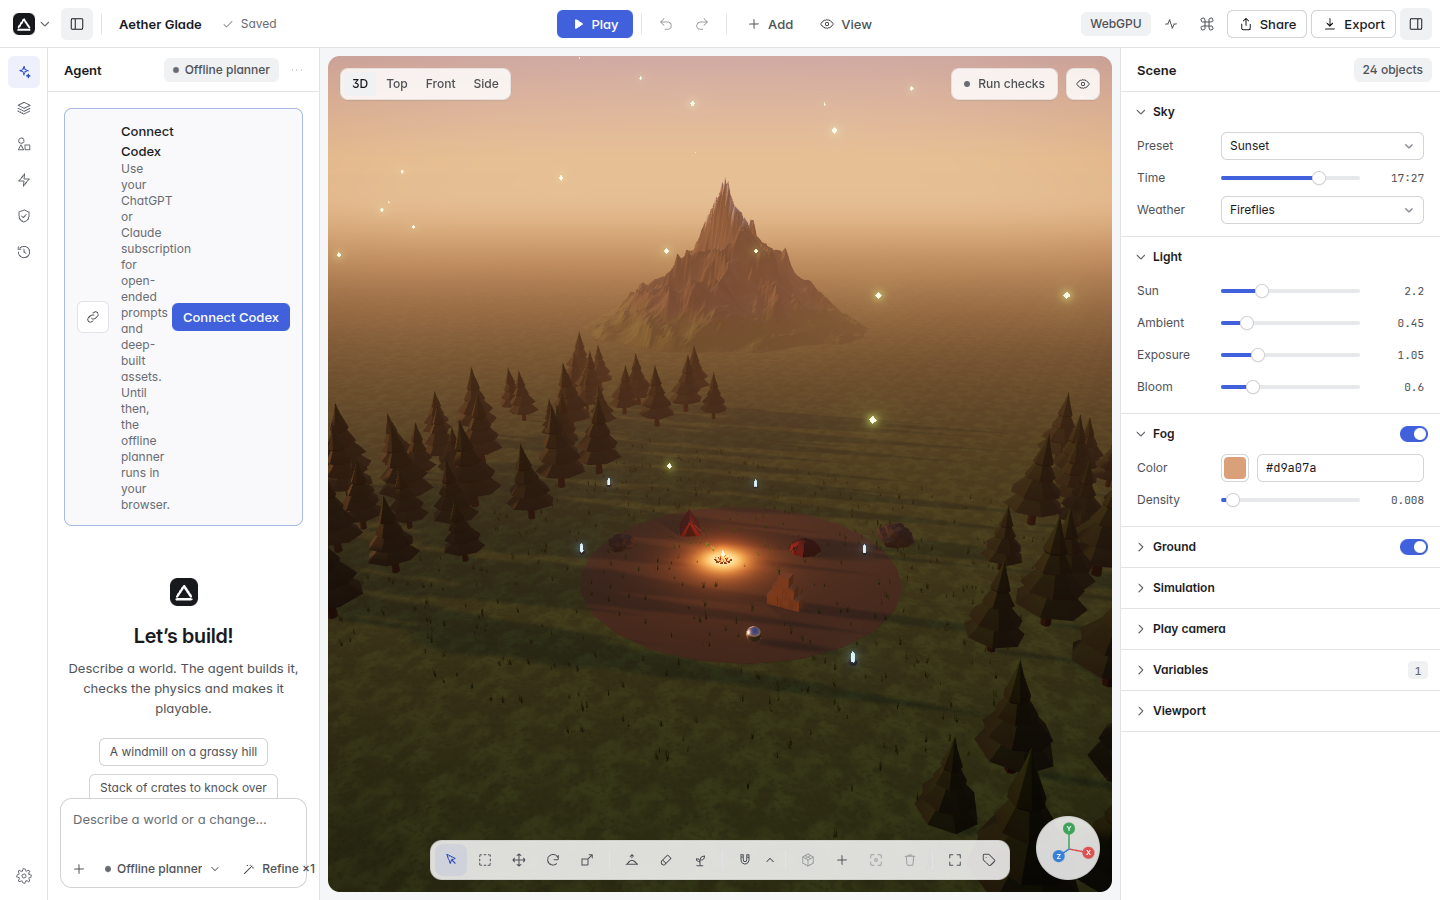
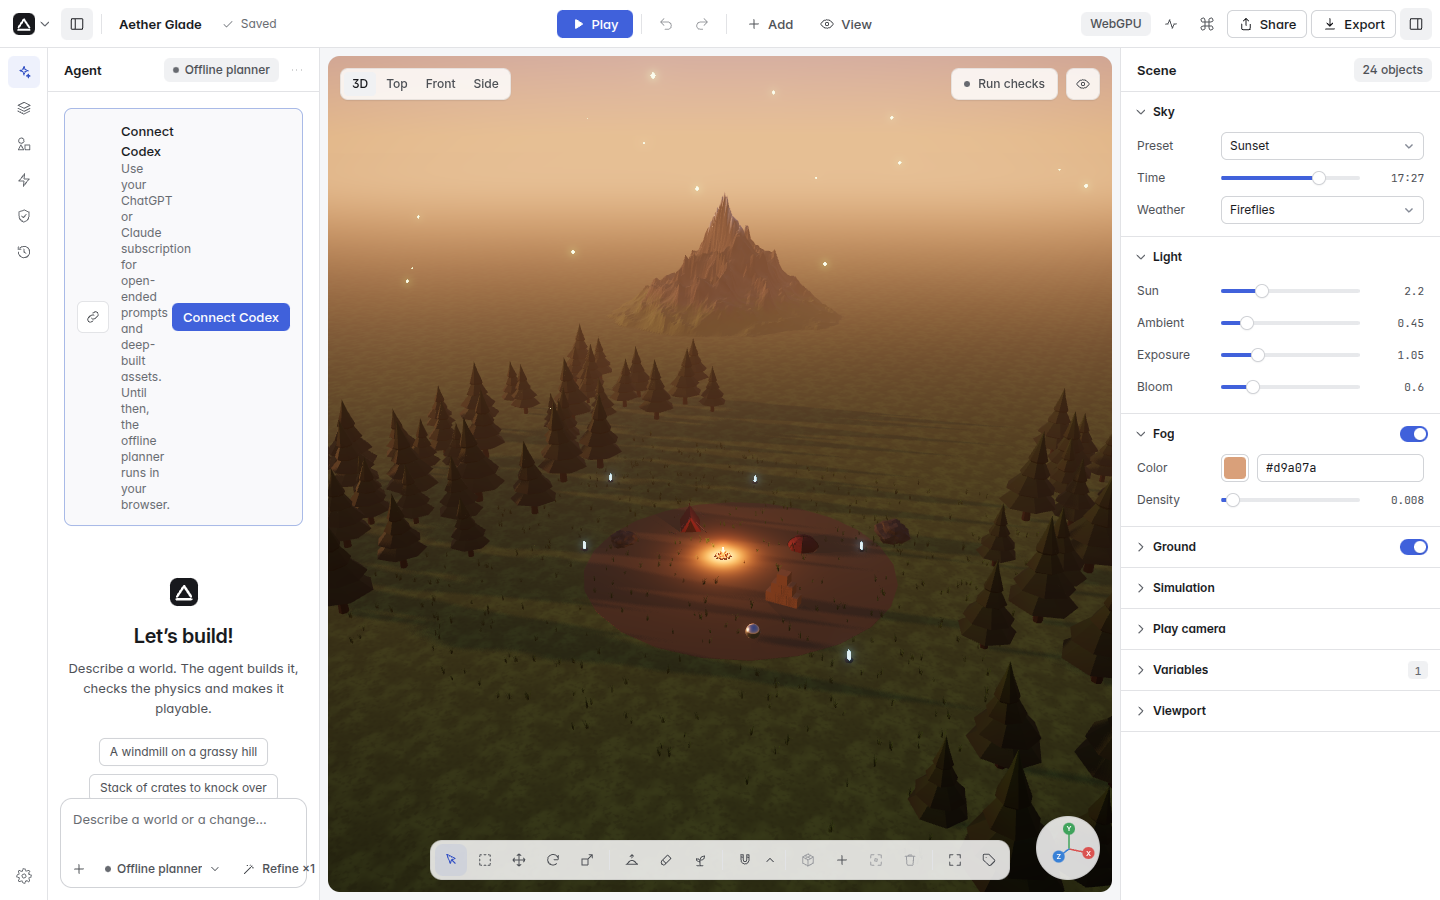
wip: checkpoint of parallel build progress (docs,render,tests)
3 files changed.

diff --git a/tests/e2e/studio.e2e.ts b/tests/e2e/studio.e2e.ts
@@ -105,64 +105,111 @@ async function waitFor<T>(page: Page, what: string, timeoutMs: number, probe: ()
 // Long-task probe (installed before any page script runs)
 // ---------------------------------------------------------------------------
 
+/** One recorded main-thread interval (ms, page clock). */
+interface Interval {
+  start: number;
+  duration: number;
+}
+
+/** A long animation frame with its script attribution (Chromium). */
+interface LongFrame extends Interval {
+  scripts: Array<{ invoker: string; type: string; start: number; duration: number }>;
+}
+
 /** Main-thread blocking observed since the last reset. */
 interface BlockingStats {
-  /** Longest `longtask` entry (Chromium; -1 where the entry type is unsupported, e.g. Firefox). */
-  longTaskMax: number;
-  longTasks: number;
-  /** Longest event-loop stall seen by a 20 ms interval timer (all browsers). */
-  lagMax: number;
+  /** `longtask` entries (Chromium); null where the entry type is unsupported (Firefox). */
+  tasks: Interval[] | null;
+  /** `long-animation-frame` entries with script attribution (Chromium); null where unsupported. */
+  frames: LongFrame[] | null;
+  /** Event-loop stalls > 50 ms seen by a 20 ms interval timer (every browser). */
+  stalls: Interval[];
+  /** Verification runs: from `running` to a final state. */
+  verifications: Interval[];
 }
 
 declare global {
   interface Window {
-    __aetherBlocking?: { reset(): void; read(): BlockingStats };
+    __aetherBlocking?: { reset(): void; read(): BlockingStats; watchVerify(): void };
   }
 }
 
 /**
- * Records long tasks (PerformanceObserver 'longtask', Chromium) and the
- * worst event-loop stall (an interval timer's lateness, every browser), so
- * Firefox, which has no long-task entries, is measured too. Plain JavaScript
- * source (not a compiled function) so no bundler helper leaks into the page.
+ * Records long tasks and long animation frames (Chromium) and event-loop
+ * stalls (an interval timer's lateness, every browser, since Firefox has no
+ * long-task entries), plus the time windows in which verification runs.
+ * Plain JavaScript source (not a compiled function) so no bundler helper
+ * leaks into the page.
  */
 const BLOCKING_PROBE = `(() => {
-  const stats = { longTaskMax: -1, longTasks: 0, lagMax: 0 };
-  let supported = false;
+  const s = { tasks: null, frames: null, stalls: [], verifications: [] };
+  const types = (window.PerformanceObserver && PerformanceObserver.supportedEntryTypes) || [];
+  const reset = () => {
+    s.tasks = types.includes('longtask') ? [] : null;
+    s.frames = types.includes('long-animation-frame') ? [] : null;
+    s.stalls = [];
+    s.verifications = [];
+  };
+  reset();
   try {
-    supported = PerformanceObserver.supportedEntryTypes.includes('longtask');
-    if (supported) {
-      stats.longTaskMax = 0;
-      new PerformanceObserver((list) => {
-        for (const e of list.getEntries()) {
-          stats.longTasks++;
-          if (e.duration > stats.longTaskMax) stats.longTaskMax = e.duration;
-        }
-      }).observe({ type: 'longtask', buffered: false });
-    }
-  } catch (err) {
-    supported = false;
-  }
+    if (types.includes('longtask')) new PerformanceObserver((list) => { for (const e of list.getEntries()) if (s.tasks) s.tasks.push({ start: e.startTime, duration: e.duration }); }).observe({ type: 'longtask', buffered: false });
+    if (types.includes('long-animation-frame')) new PerformanceObserver((list) => {
+      for (const e of list.getEntries()) if (s.frames) s.frames.push({ start: e.startTime, duration: e.duration, scripts: (e.scripts || []).map((x) => ({ invoker: String(x.invoker || ''), type: String(x.invokerType || ''), start: x.startTime, duration: x.duration })) });
+    }).observe({ type: 'long-animation-frame', buffered: false });
+  } catch (err) {}
   const INTERVAL = 20;
   let last = performance.now();
   setInterval(() => {
     const now = performance.now();
     const lag = now - last - INTERVAL;
-    if (lag > stats.lagMax) stats.lagMax = lag;
+    if (lag > 50) s.stalls.push({ start: last, duration: lag });
     last = now;
   }, INTERVAL);
+  let watching = false;
+  let openAt = -1;
   window.__aetherBlocking = {
-    reset() {
-      stats.longTaskMax = supported ? 0 : -1;
-      stats.longTasks = 0;
-      stats.lagMax = 0;
-      last = performance.now();
-    },
-    read() {
-      return { longTaskMax: stats.longTaskMax, longTasks: stats.longTasks, lagMax: stats.lagMax };
+    reset() { reset(); openAt = -1; last = performance.now(); },
+    read() { return JSON.parse(JSON.stringify(s)); },
+    watchVerify() {
+      if (watching || !window.__aether) return;
+      watching = true;
+      window.__aether.store.subscribe((st) => {
+        const running = st.verify.status === 'running';
+        if (running && openAt < 0) openAt = performance.now();
+        else if (!running && openAt >= 0) { s.verifications.push({ start: openAt, duration: performance.now() - openAt }); openAt = -1; }
+      });
     },
   };
 })();`;
+
+/** Longest duration in a list (0 when empty, -1 when unsupported). */
+function longest(list: Interval[] | null): number {
+  if (!list) return -1;
+  return list.reduce((m, i) => Math.max(m, i.duration), 0);
+}
+
+/** True when two intervals overlap. */
+function overlaps(a: Interval, b: Interval): boolean {
+  return a.start < b.start + b.duration && b.start < a.start + a.duration;
+}
+
+/**
+ * Longest main-thread script during verification that is NOT the renderer's
+ * animation-frame callback (Chromium long-animation-frame attribution; -1
+ * where unsupported). Rendering a freshly built world compiles its
+ * materials inside the frame callback (three.js, not verification); any
+ * other long script in these windows (message handlers, timers, promise
+ * continuations) would be verification work leaking onto the main thread.
+ */
+function verificationScriptMax(b: BlockingStats): number {
+  if (!b.frames) return -1;
+  let worst = 0;
+  for (const f of b.frames) {
+    if (!b.verifications.some((w) => overlaps(f, w))) continue;
+    for (const sc of f.scripts) if (sc.invoker !== 'FrameRequestCallback' && sc.duration > worst) worst = sc.duration;
+  }
+  return worst;
+}
 
 /** Compact studio state read through `window.__aether`. */
 interface StudioSnapshot {
@@ -363,6 +410,7 @@ interface RunMetrics {
   firstFrameMs: number;
   defaultWorld: { fps: number; drawCalls: number; triangles: number; entities: number };
   examples: Array<{ slug: string; entities: number; fps: number; drawCalls: number; triangles: number; verify: string; agentMs: number; longTaskMs: number; lagMs: number; verifyMs: number; lanes: number }>;
+  checks?: { ms: number; lanes: number; longTaskMs: number; lagMs: number };
 }
 
 async function boot(page: Page, url: string, metrics: RunMetrics): Promise<void> {
@@ -392,7 +440,10 @@ async function sendPrompt(page: Page, prompt: { slug: string; text: string }, me
   const input = page.getByLabel('Prompt', { exact: true });
   await input.click();
   await input.fill(prompt.text);
-  await page.evaluate(() => window.__aetherBlocking?.reset());
+  await page.evaluate(() => {
+    window.__aetherBlocking?.watchVerify();
+    window.__aetherBlocking?.reset();
+  });
   const t0 = performance.now();
   await input.press('Enter');
   await waitFor(page, `agent to start on "${prompt.slug}"`, 10_000, async () => (await snap(page)).agentBusy || (await snap(page)).head !== before.head);
@@ -404,10 +455,17 @@ async function sendPrompt(page: Page, prompt: { slug: string; text: string }, me
   const blocking = await page.evaluate(() => window.__aetherBlocking?.read() ?? null);
   check(blocking, 'the long-task probe is missing');
   log(`  agent: ${(await lastTurnEvents(page)).join(' | ')}`);
-  log(`  main thread during the turn: longest task ${blocking.longTaskMax < 0 ? 'n/a' : `${Math.round(blocking.longTaskMax)} ms`} (${blocking.longTasks} long tasks), worst event-loop stall ${Math.round(blocking.lagMax)} ms; verification ${after.verifyWorker ? `in ${after.verifyLanes} worker lane(s)` : 'on the main thread'}, ${Math.round(after.verifyMs)} ms`);
+  const longTaskMs = longest(blocking.tasks);
+  const lagMs = longest(blocking.stalls);
+  const verifyScriptMs = verificationScriptMax(blocking);
+  log(
+    `  main thread during the turn: longest task ${longTaskMs < 0 ? 'n/a' : `${Math.round(longTaskMs)} ms`}, worst stall ${Math.round(lagMs)} ms; ` +
+      `verification ${after.verifyWorker ? `in ${after.verifyLanes} worker lane(s)` : 'on the main thread'} (${blocking.verifications.length} run(s), ${Math.round(after.verifyMs)} ms), ` +
+      `longest non-render script during verification ${verifyScriptMs < 0 ? 'n/a' : `${Math.round(verifyScriptMs)} ms`}`,
+  );
   check(after.verifyWorker === true, `verification of "${prompt.slug}" did not run in a worker (${String(after.verifyWorker)})`);
-  check(blocking.longTaskMax < MAX_LONG_TASK_MS, `a ${Math.round(blocking.longTaskMax)} ms long task blocked the main thread during "${prompt.slug}" (limit ${MAX_LONG_TASK_MS} ms)`);
-  check(blocking.lagMax < MAX_LONG_TASK_MS, `the event loop stalled for ${Math.round(blocking.lagMax)} ms during "${prompt.slug}" (limit ${MAX_LONG_TASK_MS} ms)`);
+  check(blocking.verifications.length > 0, `no verification run was observed during "${prompt.slug}"`);
+  check(verifyScriptMs < MAX_LONG_TASK_MS, `a ${Math.round(verifyScriptMs)} ms main-thread script ran during verification of "${prompt.slug}" (limit ${MAX_LONG_TASK_MS} ms)`);
   check(after.lastAssistant === 'done', `agent turn for "${prompt.slug}" ended with status ${after.lastAssistant}`);
   check(after.head !== before.head && (await worldJson(page)) !== beforeWorld, `"${prompt.slug}" did not change the world`);
   check(after.entities !== before.entities, `"${prompt.slug}" did not change the entity count (${before.entities})`);
@@ -421,12 +479,44 @@ async function sendPrompt(page: Page, prompt: { slug: string; text: string }, me
   await page.waitForTimeout(500);
   await assertCanvasRendered(page, prompt.slug);
   const perf = await sampleFps(page, FPS_SAMPLE_MS);
-  metrics.examples.push({ slug: prompt.slug, entities: after.entities, verify: after.verify, agentMs, longTaskMs: blocking.longTaskMax, lagMs: blocking.lagMax, verifyMs: after.verifyMs, lanes: after.verifyLanes, ...perf });
+  metrics.examples.push({ slug: prompt.slug, entities: after.entities, verify: after.verify, agentMs, longTaskMs, lagMs, verifyMs: after.verifyMs, lanes: after.verifyLanes, ...perf });
   log(`  "${prompt.slug}": ${before.entities} → ${after.entities} entities, verify=${after.verify} ("${pillText}"), agent ${Math.round(agentMs)} ms, ${perf.fps.toFixed(1)} fps, ${perf.drawCalls} draws`);
   if (shots) {
     await screenshot(page, `world-${prompt.slug}`, 'viewport');
     if (prompt.slug === 'lakeside-camp') await screenshot(page, 'studio-overview', 'page');
   }
+}
+
+/**
+ * "Run checks" on a world that is already rendered (no new materials to
+ * compile, nothing else running): the page must stay responsive while the
+ * world is simulated, because verification runs in workers. Measured in
+ * every browser with the event-loop stall probe, and with long tasks where
+ * supported.
+ */
+async function verifyResponsiveness(page: Page): Promise<{ ms: number; lanes: number; longTaskMs: number; lagMs: number }> {
+  await waitFor(page, 'the renderer to settle', 60_000, () => page.evaluate(() => !window.__aether?.simulation?.renderer.animating));
+  await page.waitForTimeout(1000);
+  await page.evaluate(() => {
+    window.__aetherBlocking?.watchVerify();
+    window.__aetherBlocking?.reset();
+  });
+  await page.locator('.viewport .pill--button').click();
+  const done = await waitFor(page, 'checks to finish', 60_000, async () => {
+    const st = await snap(page);
+    return st.verify !== 'running' && st.verify !== 'idle' ? st : null;
+  });
+  await page.waitForTimeout(300);
+  const b = await page.evaluate(() => window.__aetherBlocking?.read() ?? null);
+  check(b, 'the long-task probe is missing');
+  const longTaskMs = longest(b.tasks);
+  const lagMs = longest(b.stalls);
+  log(`  run checks on a rendered world: ${Math.round(done.verifyMs)} ms in ${done.verifyLanes} worker lane(s); longest task ${longTaskMs < 0 ? 'n/a' : `${Math.round(longTaskMs)} ms`}, worst stall ${Math.round(lagMs)} ms`);
+  check(done.verifyWorker === true, 'Run checks did not verify in a worker');
+  check(b.verifications.length === 1, `expected one verification run, saw ${b.verifications.length}`);
+  check(longTaskMs < MAX_LONG_TASK_MS, `a ${Math.round(longTaskMs)} ms long task blocked the page while checks ran (limit ${MAX_LONG_TASK_MS} ms)`);
+  check(lagMs < MAX_LONG_TASK_MS, `the page stalled for ${Math.round(lagMs)} ms while checks ran (limit ${MAX_LONG_TASK_MS} ms)`);
+  return { ms: done.verifyMs, lanes: done.verifyLanes, longTaskMs, lagMs };
 }
 
 async function playAndStop(page: Page, shots: boolean): Promise<void> {
@@ -656,6 +746,7 @@ async function run(browser: Browser, url: string, opts: RunOptions): Promise<Run
 
     const prompts = opts.full ? PROMPTS : PROMPTS.slice(-1);
     for (const p of prompts) await sendPrompt(page, p, metrics, opts.screenshots);
+    metrics.checks = await verifyResponsiveness(page);
     await playAndStop(page, opts.screenshots);
     if (opts.full) {
       await themeSwitch(page);
@@ -696,6 +787,7 @@ function report(results: Array<{ name: string; metrics: RunMetrics }>): void {
     const worstTask = Math.max(...m.examples.map((e) => e.longTaskMs));
     const worstLag = Math.max(...m.examples.map((e) => e.lagMs));
     log(`  [${name}] agent turns: longest main-thread task ${worstTask < 0 ? 'n/a' : `${Math.round(worstTask)} ms`}, worst stall ${Math.round(worstLag)} ms; verification ${m.examples.map((e) => `${e.slug} ${Math.round(e.verifyMs)} ms/${e.lanes} lane(s)`).join(', ')}`);
+    if (m.checks) log(`  [${name}] run checks: ${Math.round(m.checks.ms)} ms in ${m.checks.lanes} lane(s); longest task ${m.checks.longTaskMs < 0 ? 'n/a' : `${Math.round(m.checks.longTaskMs)} ms`}, worst stall ${Math.round(m.checks.lagMs)} ms`);
   }
   let total = 0;
   let totalGz = 0;

diff --git a/packages/render/src/world-renderer.ts b/packages/render/src/world-renderer.ts
@@ -253,13 +253,15 @@ function grabRegion(source: HTMLCanvasElement, out: HTMLCanvasElement, sx: numbe
 
 /**
  * Encode RGBA8 pixels (rows bottom-up when `flipY`, as WebGL reads them) as
- * a data URL through a reused 2D canvas. Pixels are written row by row so a
- * flip needs no second buffer.
+ * a data URL through a reused, CPU-backed 2D canvas (`willReadFrequently`:
+ * a GPU-accelerated 2D canvas would wait for the GPU again when encoding).
+ * The encoder runs asynchronously (`toBlob`), so even a large thumbnail
+ * never blocks the page.
  */
-function encodePixels(pixels: Uint8Array, w: number, h: number, mime: string, flipY: boolean, out: HTMLCanvasElement): string {
+async function encodePixels(pixels: Uint8Array, w: number, h: number, mime: string, flipY: boolean, out: HTMLCanvasElement): Promise<string> {
   if (out.width !== w) out.width = w;
   if (out.height !== h) out.height = h;
-  const ctx = out.getContext('2d');
+  const ctx = out.getContext('2d', { willReadFrequently: true });
   if (!ctx) throw new Error('2D canvas unavailable');
   const image = ctx.createImageData(w, h);
   const row = w * 4;
@@ -270,7 +272,14 @@ function encodePixels(pixels: Uint8Array, w: number, h: number, mime: string, fl
   // Opaque output (JPEG has no alpha; PNG/WebP thumbnails should not be see-through).
   for (let i = 3; i < image.data.length; i += 4) image.data[i] = 255;
   ctx.putImageData(image, 0, 0);
-  return out.toDataURL(mime, JPEG_QUALITY);
+  const blob = await new Promise<Blob | null>((resolve) => out.toBlob(resolve, mime, JPEG_QUALITY));
+  if (!blob) return out.toDataURL(mime, JPEG_QUALITY);
+  return new Promise<string>((resolve, reject) => {
+    const reader = new FileReader();
+    reader.onload = () => (typeof reader.result === 'string' ? resolve(reader.result) : reject(new Error('capture encoding failed')));
+    reader.onerror = () => reject(reader.error ?? new Error('capture encoding failed'));
+    reader.readAsDataURL(blob);
+  });
 }
 
 function grab(source: HTMLCanvasElement, w: number, h: number, mime: string): string {
@@ -309,6 +318,8 @@ export class WorldRenderer {
   private post: PostPipeline | null = null;
   /** Reused 2D canvas for critique-view crops (released on dispose). */
   private viewCanvas: HTMLCanvasElement | null = null;
+  /** CPU-backed canvas that encodes asynchronous captures. */
+  private encodeCanvas: HTMLCanvasElement | null = null;
   /**
    * Reused targets of asynchronous captures by size (see {@link renderToPixels}),
    * at most two (critique views + thumbnails), so captures never reallocate GPU memory per turn.
@@ -1408,7 +1419,7 @@ export class WorldRenderer {
               decorations.forEach((o, i) => (o.visible = wasVisible[i] ?? true));
             }),
           );
-          return encodePixels(pixels, w, h, mime, this.backend === 'webgl2', (this.viewCanvas ??= document.createElement('canvas')));
+          return await encodePixels(pixels, w, h, mime, this.backend === 'webgl2', (this.encodeCanvas ??= document.createElement('canvas')));
         } catch (e) {
           this.asyncCaptureFailed = true;
           log.warn(`asynchronous capture unavailable, using canvas readback: ${errorMessage(e)}`);
@@ -1544,9 +1555,9 @@ export class WorldRenderer {
           const reads = this.grow.withFullScale(() =>
             list.map((view, i) => this.renderToPixels(px, px, () => renderView(view), () => (i === list.length - 1 ? restore() : undefined))),
           );
-          const out = (this.viewCanvas ??= document.createElement('canvas'));
+          const out = (this.encodeCanvas ??= document.createElement('canvas'));
           const views: string[] = [];
-          for (const read of reads) views.push(encodePixels(await read, px, px, 'image/jpeg', this.backend === 'webgl2', out));
+          for (const read of reads) views.push(await encodePixels(await read, px, px, 'image/jpeg', this.backend === 'webgl2', out));
           return views;
         } catch (e) {
           this.asyncCaptureFailed = true;
@@ -1716,6 +1727,11 @@ export class WorldRenderer {
     this.postGen++;
     for (const rt of this.captureTargets.values()) rt.dispose();
     this.captureTargets.clear();
+    if (this.encodeCanvas) {
+      this.encodeCanvas.width = 0;
+      this.encodeCanvas.height = 0;
+      this.encodeCanvas = null;
+    }
     if (this.viewCanvas) {
       // Release the 2D backing store now rather than at GC time.
       this.viewCanvas.width = 0;
